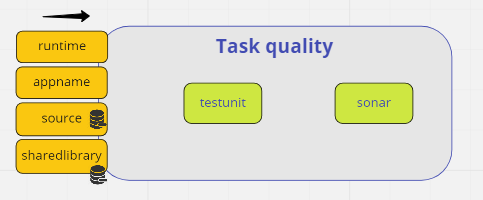
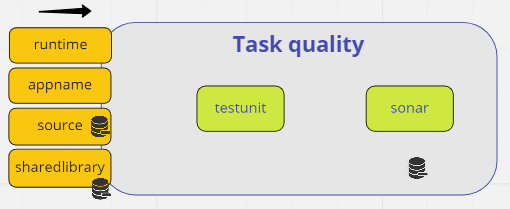
Melhorando a escrita

diff --git a/tasks-dev.md b/tasks-dev.md
@@ -14,13 +14,13 @@ Para o desenvolvimento do nosso projeto vamos precisar criar **6** `Tasks`:
 ![task](img/image6.png)
 
 * `Source`: Essa Task vai ter um `Step`, que basicamente vai fazer o clone do projeto do git;
-* `CI-QA` : Essa Task vai ter 2 `steps`:
+* `Quality` : Essa Task vai ter 2 `steps`:
     * `TestUnit` : Executa o teste unitario;
     * `Sonar`: Executa a cobertura de qualidade do código;
-* `CI-Security`: Essa Task vai ter 2 `steps`:
+* `Security`: Essa Task vai ter 2 `steps`:
     * `Horusec`: Ferramenta de Sast para verificar a segurança do código;
     * `Trivy`: Ferramenta para analisar a segurança do container;
-* `CI-Build`: Essa Task vai ter 3 `steps`:
+* `Build`: Essa Task vai ter 3 `steps`:
     * `Build`: Realiza o build da aplicação.
     * `Package`: Faz o empacotamento da aplicação em uma imagem docker, gerando o artefato final;
     * `Publish`: Pública a imagem no dockerhub;
@@ -141,30 +141,88 @@ Para fazer o download/atualização da `sharedlibrary` para o workspace precisam
 kubectl apply -f task-sharedlibrary.yaml
 ```
 
-### Criando a Takss `CI-QA`
+### Criando a Tasks `Quality`
+
+A próxima Task que vamos criar é a `quality`, que está relacionada a qualidade do código.
+
+A Task em como entrada:
+* `runtime`: Parâmetro que contém a tecnologia utilizada na aplicação
+* `appname`: Parâmetro que contém o nome da aplicação
+* `source`: Workspace que contém o código fonte da aplicação
+* `sharedlibrary`: Workspace que contém os comandos para serem executados na pipeline.
 
 ![build](img/image11.png)
-Essa Task vai ter 2 `steps`:
+
+Teremos **2** `steps`:
     * `TestUnit` : Executa o teste unitário;
     * `Sonar`: Executa a cobertura de qualidade do código;
+
+
+```python
+  params:
+    - name: appname
+      description: Nome da Imagem
+    - name: runtime
+      description: Runtime da aplicacao           
+  workspaces:
+    - name: sharedlibrary
+      description: Pasta com os comandos de execucao da pipeline
+      readOnly: true                
+    - name: source
+      description: Pasta com os fontes da aplicacao
+```
+
+```
+  stepTemplate:
+    workingDir: /workspace/source
+    volumeMounts:
+      - name: coverage
+        mountPath: /coverage
+
+  volumes:
+    - name: coverage
+      emptyDir: {}    
+```
+
+```
+    - name: unit-testing
+      image: $(params.runtime)
+      script: |
+        runtime=$(params.runtime)               
+        [ -f "pipeline/unittest.sh" ] && sh pipeline/unittest.sh || sh $(workspaces.sharedlibrary.path)/CI/$runtime/tests/unittest.sh 
+
+```   
+    - name: sonar
+      env:
+        - name: SONAR_TOKEN
+          valueFrom:
+            secretKeyRef:
+              name: sonar
+              key: SONAR_TOKEN
+      image: ubuntu
+      script: |
+        echo $SONAR_TOKEN
+        sh $(workspaces.sharedlibrary.path)/CI/$(params.runtime)/sonar/sonar.sh
+
 
 * [SonarCloud](https://sonarcloud.io/): Sonar para analise de qualidade. 
 
 ```bash
-kubectl create secret generic sonar --from-literal=SONAR_TOKEN='e2fd9312a36a9ec063e6a200e1b9a8a9a2fb5e74'
+kubectl create secret generic sonar --from-literal=SONAR_TOKEN=$TOKEN
 ```    
 
 
 
-### Criando a Tasks `CI-Security`
+### Criando a Tasks `Security`
  Essa Task vai ter 2 `steps`:
 
 * [horusec](https://horusec.io/site/): Ferramanta de SAST para verificação de segurança do código fonte.
 * [trivy](https://www.aquasec.com/products/trivy/): Ferramenta de segurança de container.
 
 
-![build](img/image10.png)    
-### Criando a Tasks `CI-Build`
+![build](img/image10.png)   
+
+### Criando a Tasks `Build`
  Essa Task vai ter 3 `steps`:
     * `Build`: Realiza o build da aplicação.
     * `Package`: Faz o empacotamento da aplicação em uma imagem docker, gerando o artefato final;
